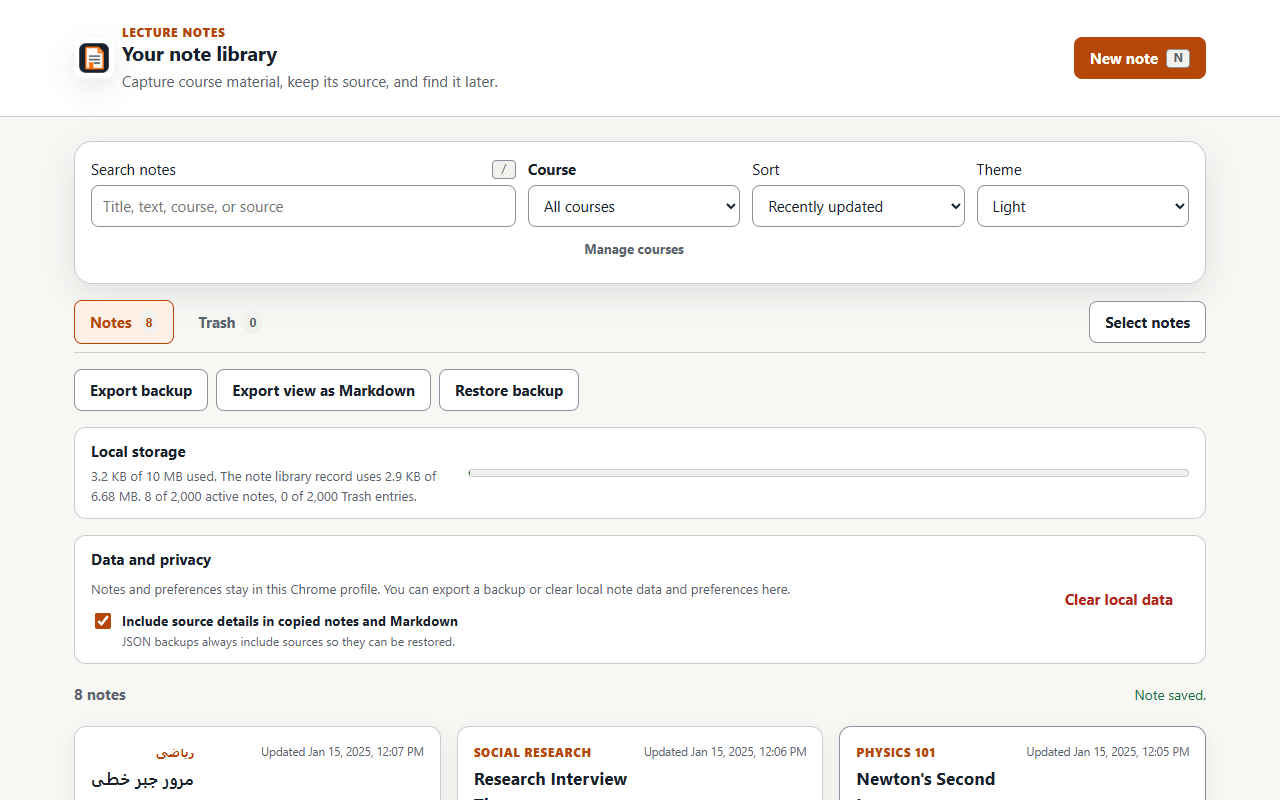
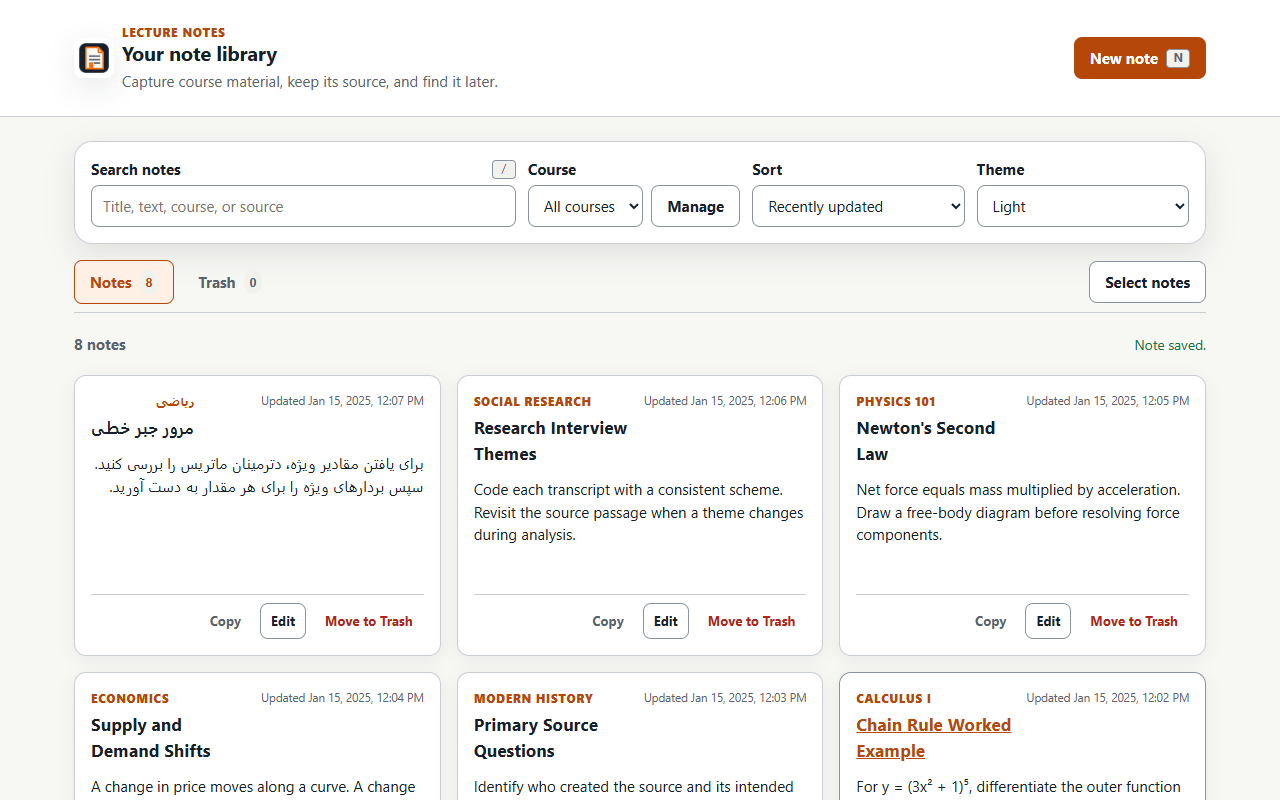
Improve library layout

diff --git a/notes.html b/notes.html
@@ -56,18 +56,20 @@
     <main id="libraryMain" class="library-shell" aria-busy="true">
       <section class="toolbar" aria-label="Find and sort notes">
         <label class="field search-field" for="searchInput">
-          <span class="label-row"><span>Search notes</span><span class="key-hint" aria-hidden="true">/</span></span>
+          <span class="label-row"><span class="field-label">Search notes</span><span class="key-hint" aria-hidden="true">/</span></span>
           <input id="searchInput" type="search" autocomplete="off" placeholder="Title, text, course, or source" disabled>
         </label>
         <div class="field course-filter-field">
-          <label for="courseFilter">Course</label>
-          <select id="courseFilter" disabled>
-            <option value="">All courses</option>
-          </select>
-          <button id="manageCoursesButton" class="button button-quiet compact" type="button" disabled>Manage courses</button>
+          <label class="field-label" for="courseFilter">Course</label>
+          <div class="course-filter-controls">
+            <select id="courseFilter" disabled>
+              <option value="">All courses</option>
+            </select>
+            <button id="manageCoursesButton" class="button button-secondary" type="button" aria-label="Manage courses" disabled>Manage</button>
+          </div>
         </div>
         <label class="field" for="sortSelect">
-          <span>Sort</span>
+          <span class="field-label">Sort</span>
           <select id="sortSelect" disabled>
             <option value="updated-desc">Recently updated</option>
             <option value="created-desc">Newest created</option>
@@ -76,7 +78,7 @@
           </select>
         </label>
         <label class="field" for="themeSelect">
-          <span>Theme</span>
+          <span class="field-label">Theme</span>
           <select id="themeSelect" disabled>
             <option value="system">System</option>
             <option value="light">Light</option>
@@ -119,37 +121,6 @@
           </div>
           <button id="cancelSelectionButton" class="button button-quiet compact" type="button">Done selecting</button>
         </div>
-      </section>
-
-      <section class="library-actions" aria-label="Backup and restore notes">
-        <button id="exportJsonButton" class="button button-secondary" type="button" disabled>Export backup</button>
-        <button id="exportMarkdownButton" class="button button-secondary" type="button" disabled>Export view as Markdown</button>
-        <button id="importButton" class="button button-secondary" type="button" disabled>Restore backup</button>
-        <input id="importFileInput" type="file" accept="application/json,.json" hidden>
-      </section>
-
-      <section id="storageUsage" class="storage-usage" aria-labelledby="storageUsageHeading">
-        <div class="storage-usage-copy">
-          <h2 id="storageUsageHeading">Local storage</h2>
-          <p id="storageUsageText">Calculating library size...</p>
-        </div>
-        <meter id="storageUsageMeter" min="0" max="10485760" value="0" aria-labelledby="storageUsageHeading storageUsageText">0 of 10 MB</meter>
-        <p id="storageUsageWarning" class="storage-usage-warning" role="status" aria-live="polite" aria-atomic="true" hidden></p>
-      </section>
-
-      <section class="data-privacy" aria-labelledby="dataPrivacyHeading">
-        <div class="data-privacy-copy">
-          <h2 id="dataPrivacyHeading">Data and privacy</h2>
-          <p>Notes and preferences stay in this Chrome profile. You can export a backup or clear local note data and preferences here.</p>
-          <label class="share-source-setting" for="includeSourceOnShare">
-            <input id="includeSourceOnShare" type="checkbox" aria-describedby="includeSourceOnShareHint" disabled>
-            <span>
-              Include source details in copied notes and Markdown
-              <small id="includeSourceOnShareHint">JSON backups always include sources so they can be restored.</small>
-            </span>
-          </label>
-        </div>
-        <button id="clearLocalDataButton" class="button button-quiet danger-text" type="button" disabled>Clear local data</button>
       </section>
 
       <div class="library-feedback">
@@ -196,6 +167,44 @@
 
       <section id="notesList" class="notes-grid" aria-label="Saved notes"></section>
       <button id="showMoreButton" class="button button-secondary show-more" type="button" hidden>Show more notes</button>
+
+      <div class="library-tools">
+        <div class="library-tools-heading">
+          <h2>Library tools</h2>
+          <p>Back up, restore, and manage data stored in this Chrome profile.</p>
+        </div>
+
+        <section class="library-actions" aria-label="Backup and restore notes">
+          <button id="exportJsonButton" class="button button-secondary" type="button" disabled>Export backup</button>
+          <button id="exportMarkdownButton" class="button button-secondary" type="button" disabled>Export view as Markdown</button>
+          <button id="importButton" class="button button-secondary" type="button" disabled>Restore backup</button>
+          <input id="importFileInput" type="file" accept="application/json,.json" hidden>
+        </section>
+
+        <section id="storageUsage" class="storage-usage" aria-labelledby="storageUsageHeading">
+          <div class="storage-usage-copy">
+            <h2 id="storageUsageHeading">Local storage</h2>
+            <p id="storageUsageText">Calculating library size...</p>
+          </div>
+          <meter id="storageUsageMeter" min="0" max="10485760" value="0" aria-labelledby="storageUsageHeading storageUsageText">0 of 10 MB</meter>
+          <p id="storageUsageWarning" class="storage-usage-warning" role="status" aria-live="polite" aria-atomic="true" hidden></p>
+        </section>
+
+        <section class="data-privacy" aria-labelledby="dataPrivacyHeading">
+          <div class="data-privacy-copy">
+            <h2 id="dataPrivacyHeading">Data and privacy</h2>
+            <p>Notes and preferences stay in this Chrome profile. You can export a backup or clear local note data and preferences here.</p>
+            <label class="share-source-setting" for="includeSourceOnShare">
+              <input id="includeSourceOnShare" type="checkbox" aria-describedby="includeSourceOnShareHint" disabled>
+              <span>
+                Include source details in copied notes and Markdown
+                <small id="includeSourceOnShareHint">JSON backups always include sources so they can be restored.</small>
+              </span>
+            </label>
+          </div>
+          <button id="clearLocalDataButton" class="button button-quiet danger-text" type="button" disabled>Clear local data</button>
+        </section>
+      </div>
     </main>
 
     <template id="noteCardTemplate">

diff --git a/notes.css b/notes.css
@@ -52,8 +52,36 @@
   gap: var(--space-2);
 }
 
-.course-filter-field .button {
-  width: 100%;
+.field-label {
+  font-weight: 700;
+}
+
+.course-filter-controls {
+  display: grid;
+  grid-template-columns: minmax(0, 1fr) auto;
+  gap: var(--space-2);
+}
+
+.library-tools {
+  display: grid;
+  gap: var(--space-3);
+  padding-block-start: var(--space-3);
+  border-block-start: 1px solid var(--border);
+}
+
+.library-tools-heading h2,
+.library-tools-heading p {
+  margin: 0;
+}
+
+.library-tools-heading h2 {
+  font-size: 1rem;
+}
+
+.library-tools-heading p {
+  margin-block-start: var(--space-1);
+  color: var(--text-muted);
+  font-size: 0.84rem;
 }
 
 .active-filters {
@@ -652,6 +680,10 @@
   }
 
   .toolbar {
+    grid-template-columns: 1fr;
+  }
+
+  .course-filter-controls {
     grid-template-columns: 1fr;
   }
 
